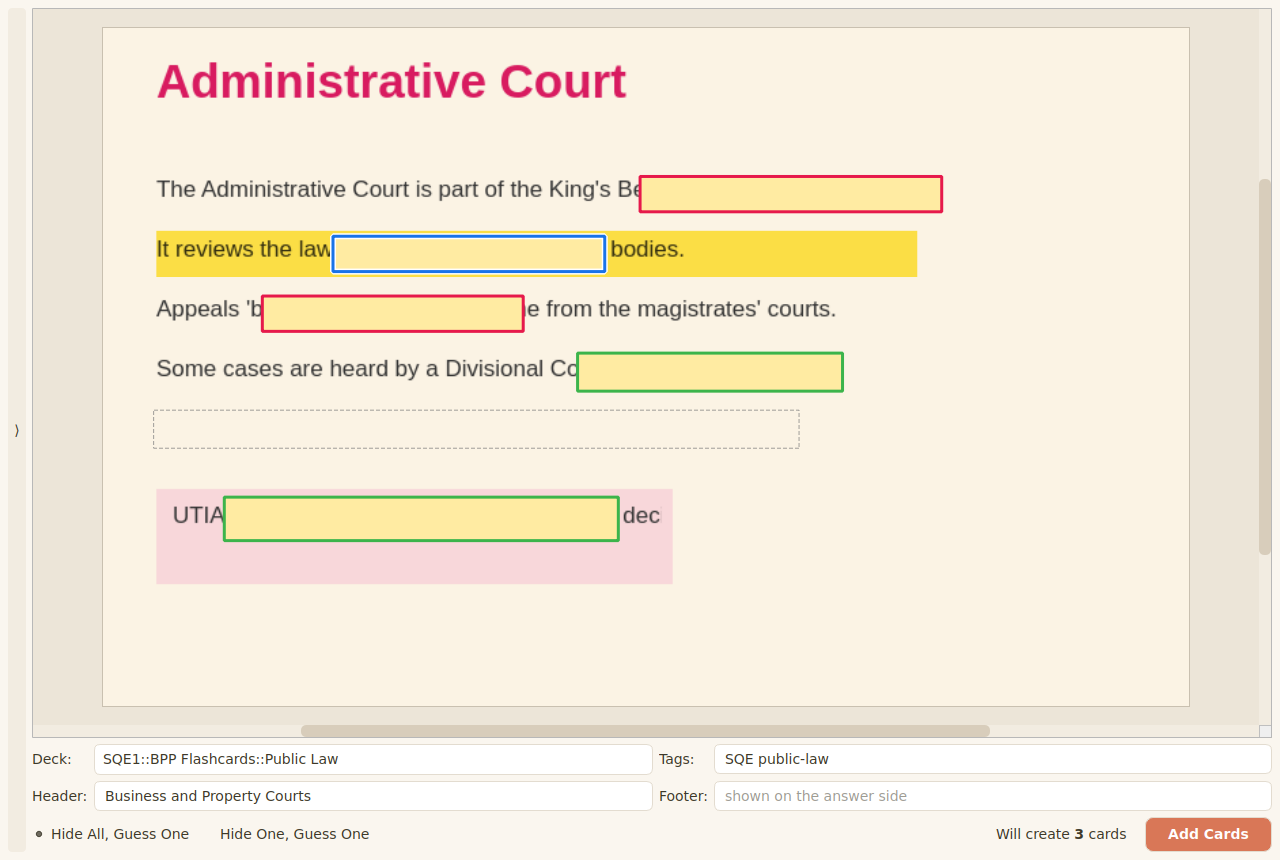
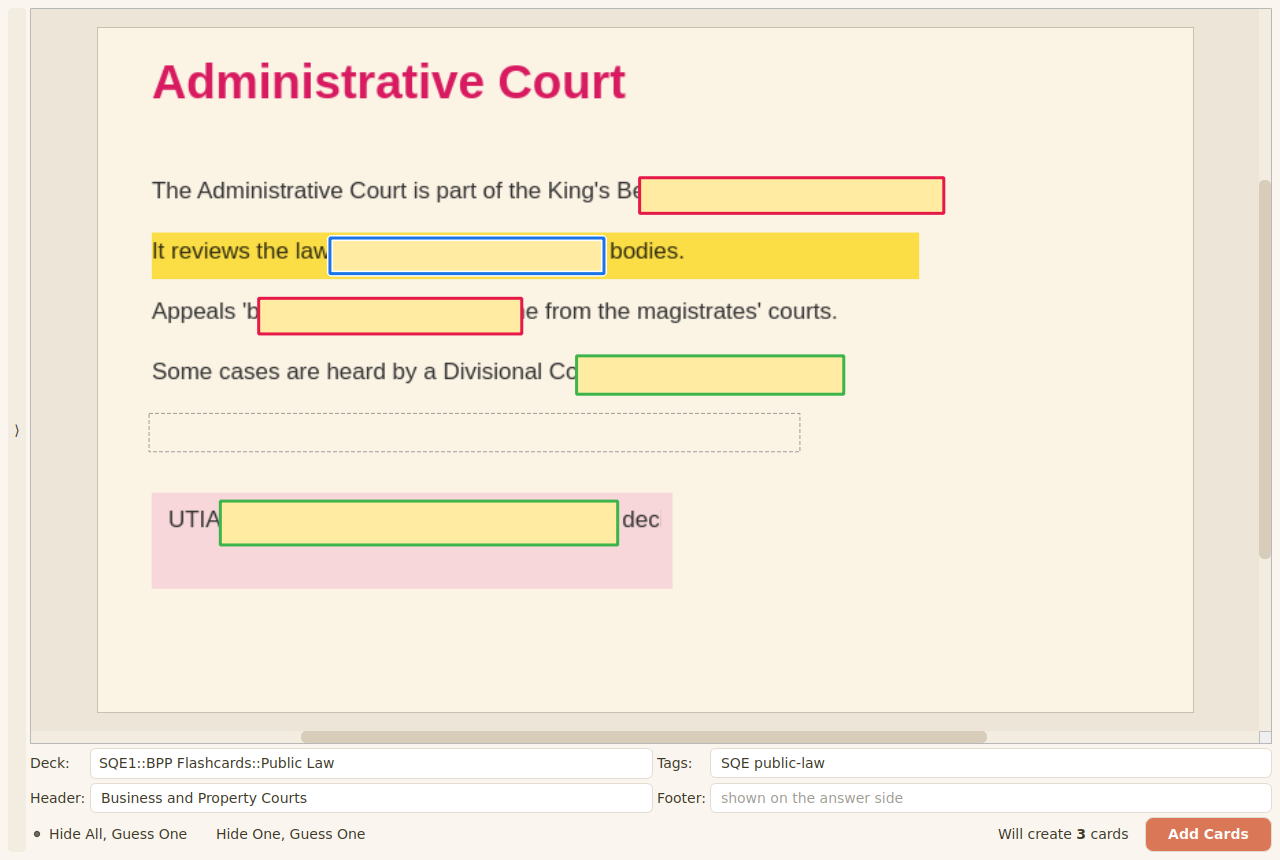
Resizable sidebar splitter and PowerPoint-style queue thumbnails (v0.5.1)
- Sidebar sits in a QSplitter: drag the divider to any width; the
  collapse toggle still snaps it away
- Queue cards render as numbered slide thumbnails (border, soft shadow,
  snips letterboxed on the card's background, ghost plus for empty
  cards); background button is a live colour swatch; thumbnails rescale
  with the panel width
- Fix the queue collapsing to a sliver: scroll-area size hints don't
  propagate, so the queue now takes the sidebar's spare height explicitly

Claude-Session: https://claude.ai/code/session_01B1Kw15xiaiYrjU46HCDApT

diff --git a/snip_occlusion/newcard_panel.py b/snip_occlusion/newcard_panel.py
@@ -1,8 +1,9 @@
 """The 'New card queue' panel: lives at the bottom of the left toolbar.
 
-Each queued card shows a live thumbnail and accepts snip patches dropped
-onto it straight from the canvas. Cards can also be created empty, have
-their background colour changed, or be deleted. 'Start next' loads the
+Each queued card is shown PowerPoint-style: a numbered slide thumbnail
+(the card's background colour, thin border, soft shadow) with its snips
+letterboxed inside. Cards accept snip patches dropped straight from the
+canvas, can be created empty, recoloured, or deleted. 'Start' loads the
 first queued card into the editor as a fresh image to occlude.
 """
 
@@ -13,10 +14,12 @@ from .newcard import NewCardQueue, QueuedCard
 
 PATCH_MIME = "application/x-snip-occlusion-patch"
 
+THUMB_ASPECT = 0.625  # 16:10, like a slide
+
 _CARD_STYLE = """
 QFrame#queueCard {
-    background: #ffffff;
-    border: 1px solid #e3dcd0;
+    background: transparent;
+    border: 2px solid transparent;
     border-radius: 8px;
 }
 QFrame#queueCard[dropHover="true"] {
@@ -37,53 +40,112 @@ QToolButton:hover {
 
 
 class QueueCardWidget(QFrame):
-    """One card in the queue: thumbnail + background/delete buttons."""
+    """One card in the queue: slide-style thumbnail + controls."""
 
     def __init__(self, card: QueuedCard, panel: "NewCardQueuePanel"):
         super().__init__(panel)
         self.card = card
         self.panel = panel
+        self.index = 1
+        self._composed: QImage | None = None
         self.setObjectName("queueCard")
         self.setStyleSheet(_CARD_STYLE)
         self.setAcceptDrops(True)
 
         lay = QVBoxLayout(self)
-        lay.setContentsMargins(6, 6, 6, 4)
-        lay.setSpacing(3)
+        lay.setContentsMargins(4, 4, 4, 2)
+        lay.setSpacing(2)
         self.thumb = QLabel(self)
         self.thumb.setAlignment(Qt.AlignmentFlag.AlignCenter)
-        self.thumb.setMinimumHeight(48)
         lay.addWidget(self.thumb)
 
         row = QHBoxLayout()
         row.setSpacing(2)
+        self.num_label = QLabel(self)
+        self.num_label.setStyleSheet(
+            "color:#8a8171;font-size:8.5pt;font-weight:600;"
+        )
+        row.addWidget(self.num_label)
         self.count_label = QLabel(self)
         self.count_label.setStyleSheet("color:#8a8171;font-size:8.5pt;")
         row.addWidget(self.count_label)
         row.addStretch(1)
-        bg_btn = QToolButton(self)
-        bg_btn.setText("🎨")
-        bg_btn.setToolTip("Change this card's background colour")
-        qconnect(bg_btn.clicked, self._pick_bg)
-        row.addWidget(bg_btn)
+        self.bg_btn = QToolButton(self)
+        self.bg_btn.setToolTip("Change this card's background colour")
+        qconnect(self.bg_btn.clicked, self._pick_bg)
+        row.addWidget(self.bg_btn)
         del_btn = QToolButton(self)
-        del_btn.setText("✕")
+        del_btn.setText("×")
         del_btn.setToolTip("Delete this queued card")
         qconnect(del_btn.clicked, lambda: self.panel.delete_card(self.card.id))
         row.addWidget(del_btn)
         lay.addLayout(row)
         self.refresh()
 
+    def set_index(self, index: int) -> None:
+        self.index = index
+        self.num_label.setText("Card %d" % index)
+
     def refresh(self) -> None:
-        img = self.card.compose()
-        pix = QPixmap.fromImage(img).scaledToWidth(
-            132, Qt.TransformationMode.SmoothTransformation
-        )
-        self.thumb.setPixmap(pix)
+        """Recompose the card content and redraw the thumbnail."""
+        self._composed = self.card.compose() if self.card.snips else None
+        self._render_thumb()
         n = len(self.card.snips)
         self.count_label.setText(
-            "empty — drop snips here" if n == 0 else "%d snip%s" % (n, "" if n == 1 else "s")
+            "· drop snips here" if n == 0
+            else "· %d snip%s" % (n, "" if n == 1 else "s")
         )
+        swatch = QPixmap(14, 14)
+        swatch.fill(self.card.bg)
+        self.bg_btn.setIcon(QIcon(swatch))
+        self.set_index(self.index)
+
+    def resizeEvent(self, event) -> None:
+        super().resizeEvent(event)
+        self._render_thumb()
+
+    def _render_thumb(self) -> None:
+        """A PowerPoint-style slide: shadow, border, content letterboxed."""
+        width = max(110, self.width() - 14)
+        height = int(width * THUMB_ASPECT)
+        pm = QPixmap(width, height)
+        pm.fill(Qt.GlobalColor.transparent)
+        p = QPainter(pm)
+        p.setRenderHint(QPainter.RenderHint.Antialiasing, True)
+        p.setRenderHint(QPainter.RenderHint.SmoothPixmapTransform, True)
+
+        slide = QRectF(0.5, 0.5, width - 4, height - 4)
+        # soft shadow, then the slide itself
+        p.setPen(Qt.PenStyle.NoPen)
+        p.setBrush(QColor(0, 0, 0, 26))
+        p.drawRoundedRect(slide.translated(2.5, 2.5), 3, 3)
+        p.setBrush(QBrush(self.card.bg))
+        p.setPen(QPen(QColor("#c9c0b0"), 1))
+        p.drawRoundedRect(slide, 3, 3)
+
+        if self._composed is not None:
+            inner = slide.adjusted(5, 5, -5, -5)
+            img = self._composed
+            scale = min(
+                inner.width() / img.width(), inner.height() / img.height(), 1.0
+            )
+            w, h = img.width() * scale, img.height() * scale
+            target = QRectF(
+                inner.x() + (inner.width() - w) / 2,
+                inner.y() + (inner.height() - h) / 2,
+                w,
+                h,
+            )
+            p.drawImage(target, img, QRectF(0, 0, img.width(), img.height()))
+        else:
+            # empty card: a ghost plus sign, like an empty new slide
+            p.setPen(QPen(QColor(0, 0, 0, 45), 2))
+            cx, cy = slide.center().x(), slide.center().y()
+            arm = min(12.0, slide.height() / 5)
+            p.drawLine(QPointF(cx - arm, cy), QPointF(cx + arm, cy))
+            p.drawLine(QPointF(cx, cy - arm), QPointF(cx, cy + arm))
+        p.end()
+        self.thumb.setPixmap(pm)
 
     def _pick_bg(self) -> None:
         c = QColorDialog.getColor(self.card.bg, self)
@@ -136,7 +198,10 @@ class NewCardQueuePanel(QWidget):
         self.scroll = QScrollArea(self)
         self.scroll.setWidgetResizable(True)
         self.scroll.setFrameShape(QFrame.Shape.NoFrame)
-        self.scroll.setMaximumHeight(300)
+        self.scroll.setMinimumHeight(90)
+        self.scroll.setSizePolicy(
+            QSizePolicy.Policy.Preferred, QSizePolicy.Policy.Expanding
+        )
         self.scroll.setHorizontalScrollBarPolicy(
             Qt.ScrollBarPolicy.ScrollBarAlwaysOff
         )
@@ -147,7 +212,7 @@ class NewCardQueuePanel(QWidget):
         self.cards_layout.setSpacing(6)
         self.cards_layout.addStretch(1)
         self.scroll.setWidget(inner)
-        lay.addWidget(self.scroll)
+        lay.addWidget(self.scroll, 1)
 
         row = QHBoxLayout()
         add_btn = QPushButton("+ Card", self)
@@ -218,8 +283,16 @@ class NewCardQueuePanel(QWidget):
         self._widgets[card.id] = w
         # keep the trailing stretch at the end
         self.cards_layout.insertWidget(self.cards_layout.count() - 1, w)
+        self._renumber()
+
+    def _renumber(self) -> None:
+        for i, card in enumerate(self.queue.cards, 1):
+            w = self._widgets.get(card.id)
+            if w is not None:
+                w.set_index(i)
 
     def _refresh_buttons(self) -> None:
         n = len(self.queue)
         self.start_btn.setEnabled(n > 0)
         self.start_btn.setText("Start ▸" if n == 0 else "Start ▸ (%d)" % n)
+        self._renumber()

diff --git a/snip_occlusion/dialog.py b/snip_occlusion/dialog.py
@@ -170,6 +170,14 @@ QToolTip {
     border: 1px solid #d8cdbb;
     padding: 4px 6px;
 }
+QSplitter::handle {
+    background: #f2ece1;
+    border-radius: 3px;
+    margin: 24px 1px;
+}
+QSplitter::handle:hover {
+    background: #e0d5c2;
+}
 """
 
 
@@ -229,9 +237,17 @@ class SnipOcclusionDialog(QDialog):
         outer = QHBoxLayout(self)
         outer.setContentsMargins(8, 8, 8, 8)
 
+        # sidebar and canvas live in a splitter: drag the divider to make
+        # the toolbar any width you like
+        self.splitter = QSplitter(Qt.Orientation.Horizontal, self)
+        self.splitter.setHandleWidth(7)
+        self.splitter.setChildrenCollapsible(False)
+        outer.addWidget(self.splitter)
+
         # --- left-hand toolbar
         side_widget = QWidget(self)
-        side_widget.setFixedWidth(170)
+        side_widget.setMinimumWidth(150)
+        side_widget.setMaximumWidth(400)
         side = QVBoxLayout(side_widget)
         side.setContentsMargins(0, 0, 6, 0)
         side.setSpacing(4)
@@ -321,19 +337,28 @@ class SnipOcclusionDialog(QDialog):
         qconnect(
             self.queue_panel.start_next_requested, self._start_next_clicked
         )
-        side.addWidget(self.queue_panel)
+        # the queue soaks up all spare sidebar height (scroll area size
+        # hints don't propagate reliably, so an explicit stretch it is)
+        side.addWidget(self.queue_panel, 1)
 
-        side.addStretch(1)
         help_btn = self._side_button("?  Shortcuts", "Shortcuts and tips")
         qconnect(help_btn.clicked, self._show_help)
         side.addWidget(help_btn)
         self._side_widget = side_widget
-        outer.addWidget(side_widget)
+        self.splitter.addWidget(side_widget)
 
-        # thin collapse handle so the toolbar can slide away in full screen
+        # --- right-hand side: collapse handle + canvas + form
+        right_container = QWidget(self)
+        right_h = QHBoxLayout(right_container)
+        right_h.setContentsMargins(0, 0, 0, 0)
+        right_h.setSpacing(4)
+
+        # thin collapse handle so the toolbar can also snap away entirely
         self.collapse_btn = QToolButton(self)
         self.collapse_btn.setText("⟨")
-        self.collapse_btn.setToolTip("Hide / show the toolbar")
+        self.collapse_btn.setToolTip(
+            "Hide / show the toolbar (drag the divider to resize it)"
+        )
         self.collapse_btn.setFixedWidth(18)
         self.collapse_btn.setSizePolicy(
             QSizePolicy.Policy.Fixed, QSizePolicy.Policy.Expanding
@@ -343,11 +368,14 @@ class SnipOcclusionDialog(QDialog):
             "padding:0;}QToolButton:hover{background:#e8dfd0;}"
         )
         qconnect(self.collapse_btn.clicked, self._toggle_sidebar)
-        outer.addWidget(self.collapse_btn)
+        right_h.addWidget(self.collapse_btn)
 
-        # --- right-hand side: canvas + form
         layout = QVBoxLayout()
-        outer.addLayout(layout, 1)
+        right_h.addLayout(layout, 1)
+        self.splitter.addWidget(right_container)
+        self.splitter.setStretchFactor(0, 0)
+        self.splitter.setStretchFactor(1, 1)
+        self.splitter.setSizes([190, 900])
 
         # --- canvas / placeholder stack
         self.stack = QStackedWidget(self)

diff --git a/CHANGELOG.md b/CHANGELOG.md
@@ -4,6 +4,18 @@ Each version below corresponds to a commit on the repository; the
 installed version is shown as `human_version` in
 `snip_occlusion/manifest.json`.
 
+## v0.5.1 — 2026-08-30
+
+- The left toolbar is now freely resizable: drag the divider between the
+  toolbar and the canvas to any width (the ⟨ toggle still snaps it away
+  entirely).
+- Queued new cards are now shown PowerPoint-style: numbered slide
+  thumbnails ("Card 1", "Card 2"…) with a border and soft shadow, the
+  card's snips letterboxed inside on its background colour, and a ghost
+  plus sign for empty cards. The background-colour button is now a swatch
+  showing the card's actual colour. The queue also grows to use all spare
+  toolbar height.
+
 ## v0.5.0 — 2026-08-30
 
 - **Highlighter tool (H):** draws perfectly straight highlight bands with
